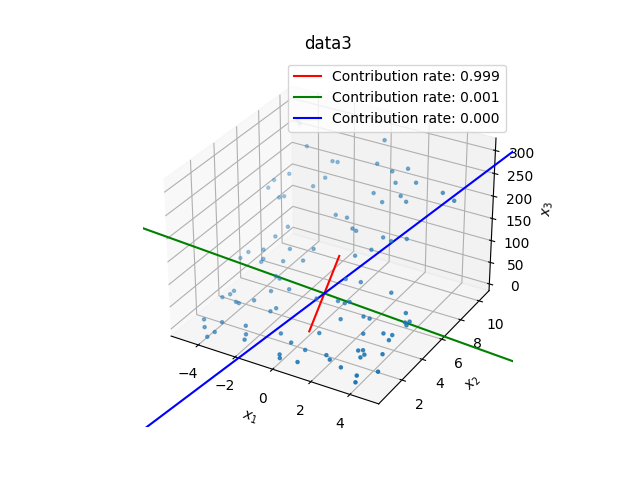
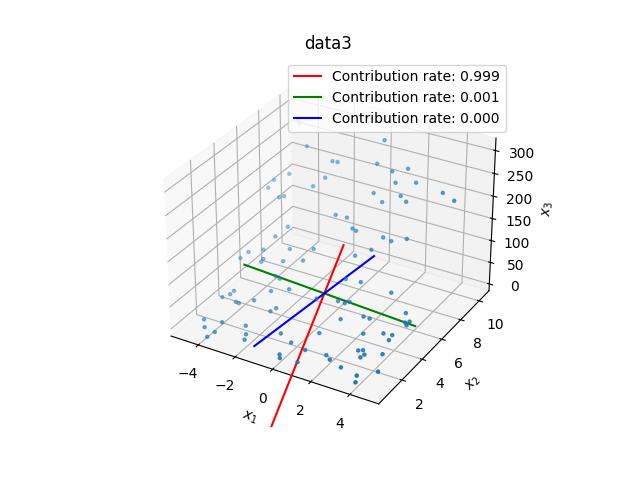
fix review

diff --git a/ex3/y_ishikawa/principal_component_analysis.py b/ex3/y_ishikawa/principal_component_analysis.py
@@ -192,10 +192,14 @@ def plot_scatter(  # noqa: PLR0913
             ]
         )
         colors = ["r", "g", "b"]
-        t = np.array([-50, 50])
         for i, (eig_vec, contribution) in enumerate(
             zip(pca.transform_matrix.T, pca.contributions, strict=True)
         ):
+            max_idx = np.argmax(np.abs(eig_vec))
+            t = (
+                np.linspace(min(df.iloc[:, max_idx]), max(df.iloc[:, max_idx]), 100)
+                - center[max_idx]
+            )
             line = t[:, np.newaxis] * eig_vec + center
             ax.plot(
                 line[:, 0],
